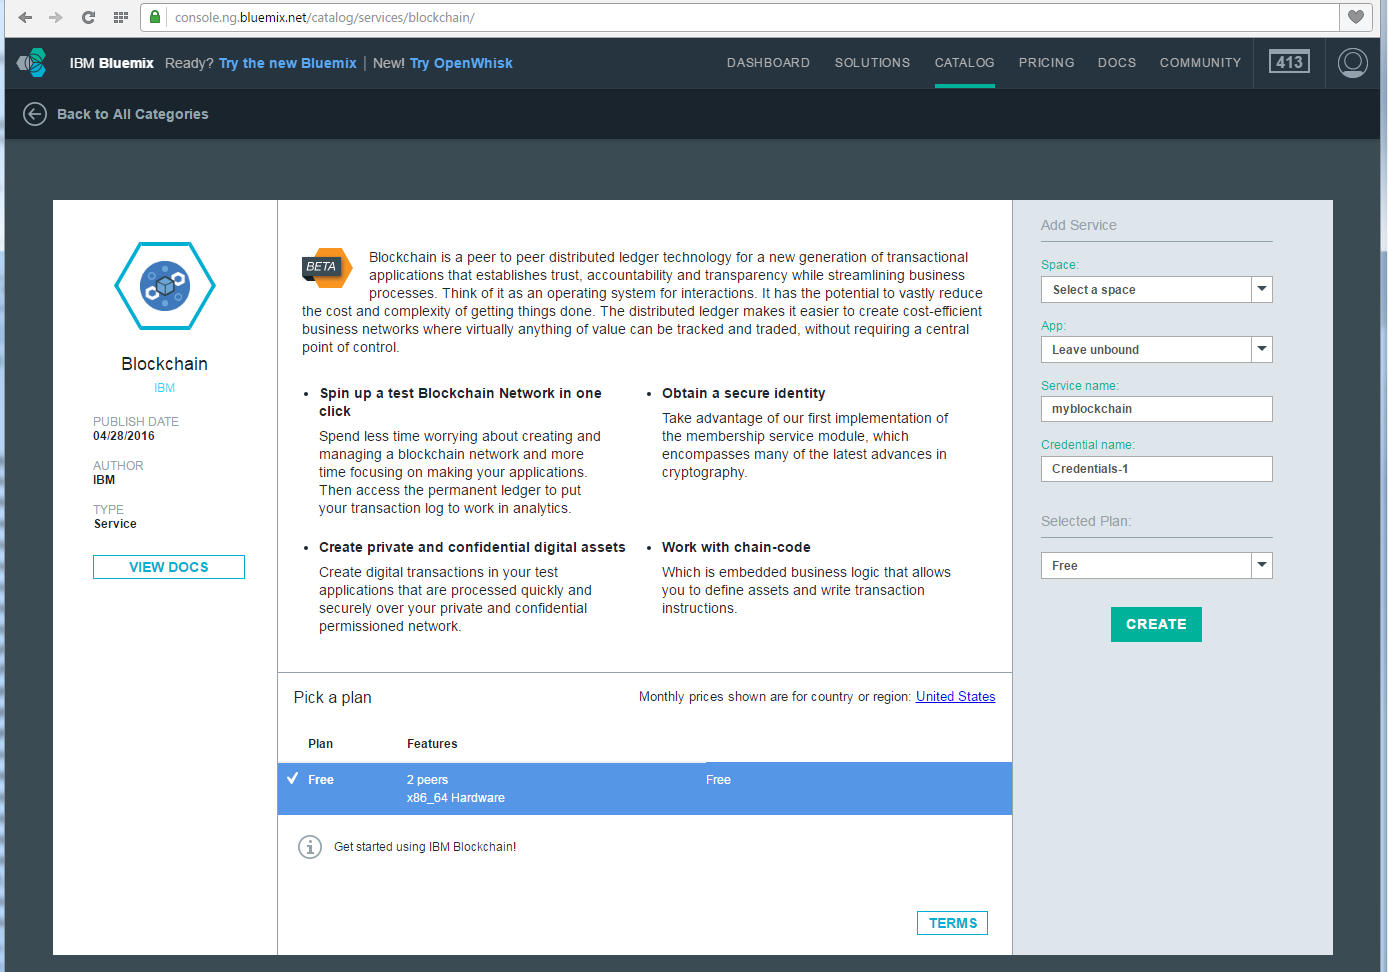
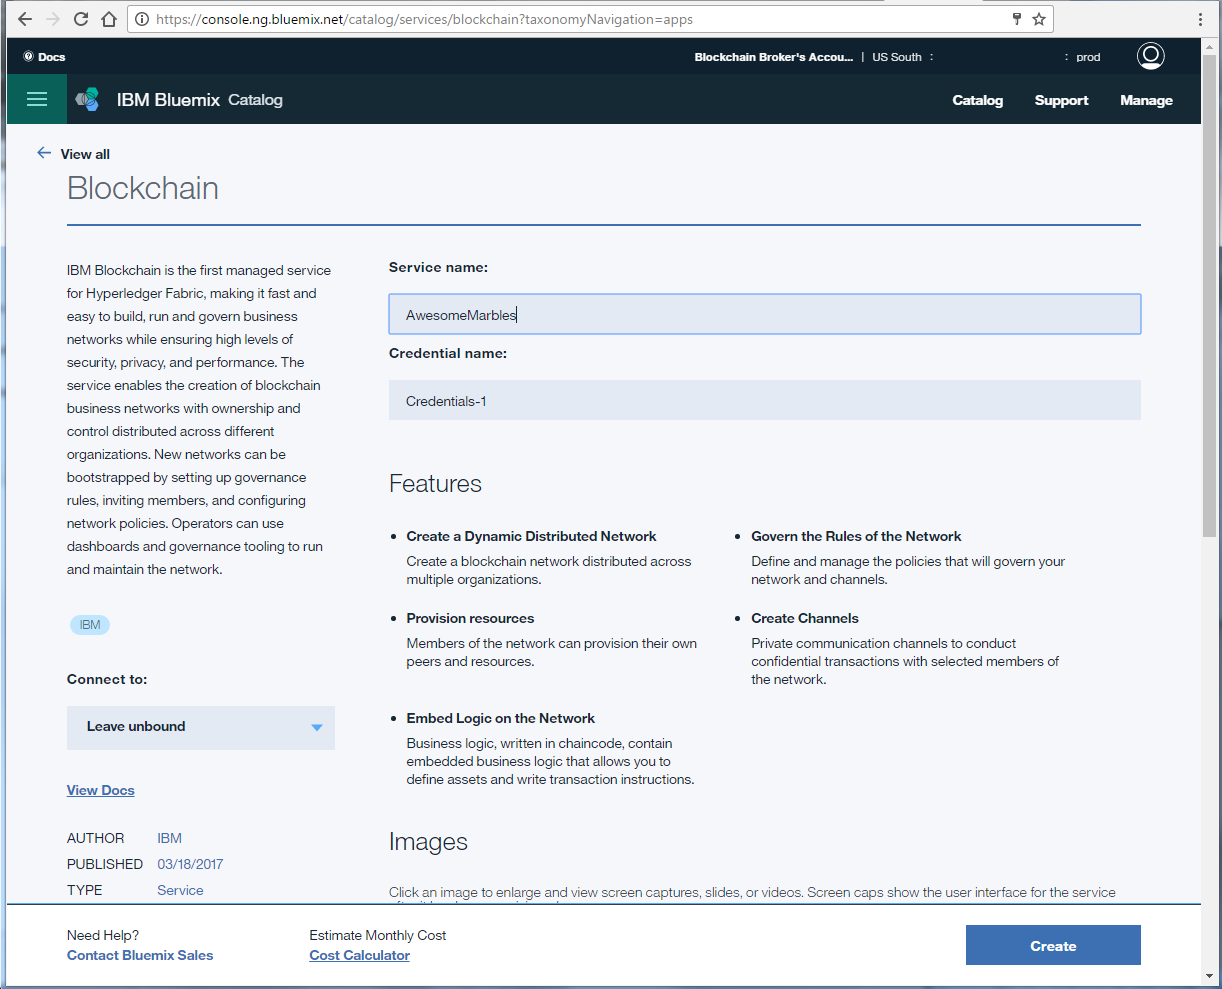
update images

diff --git a/docs/use_bluemix_hyperledger.md b/docs/use_bluemix_hyperledger.md
@@ -23,7 +23,7 @@
   1. Leave the "Service Name" alone or you can choose to rename it to something more friendly such as "Awesome Marbles Demo"
   1. Leave the "Credential name" field as its default value
   1. Leave the "Connected To:" field as "Leave unbound" (unless you already have an application, but you probably don't yet)
-  1. Change the "Selected Plan" to **High Security Business Network vNext(Limited Beta)**
+  1. Scroll to the bottom and change the "Selected Plan" to **High Security Business Network vNext(Limited Beta)** (its important to select the **vNext** Plan)
   1. Click the "Create" button at the bottom right.
 
 ![](/doc_images/1-welcome.PNG)
